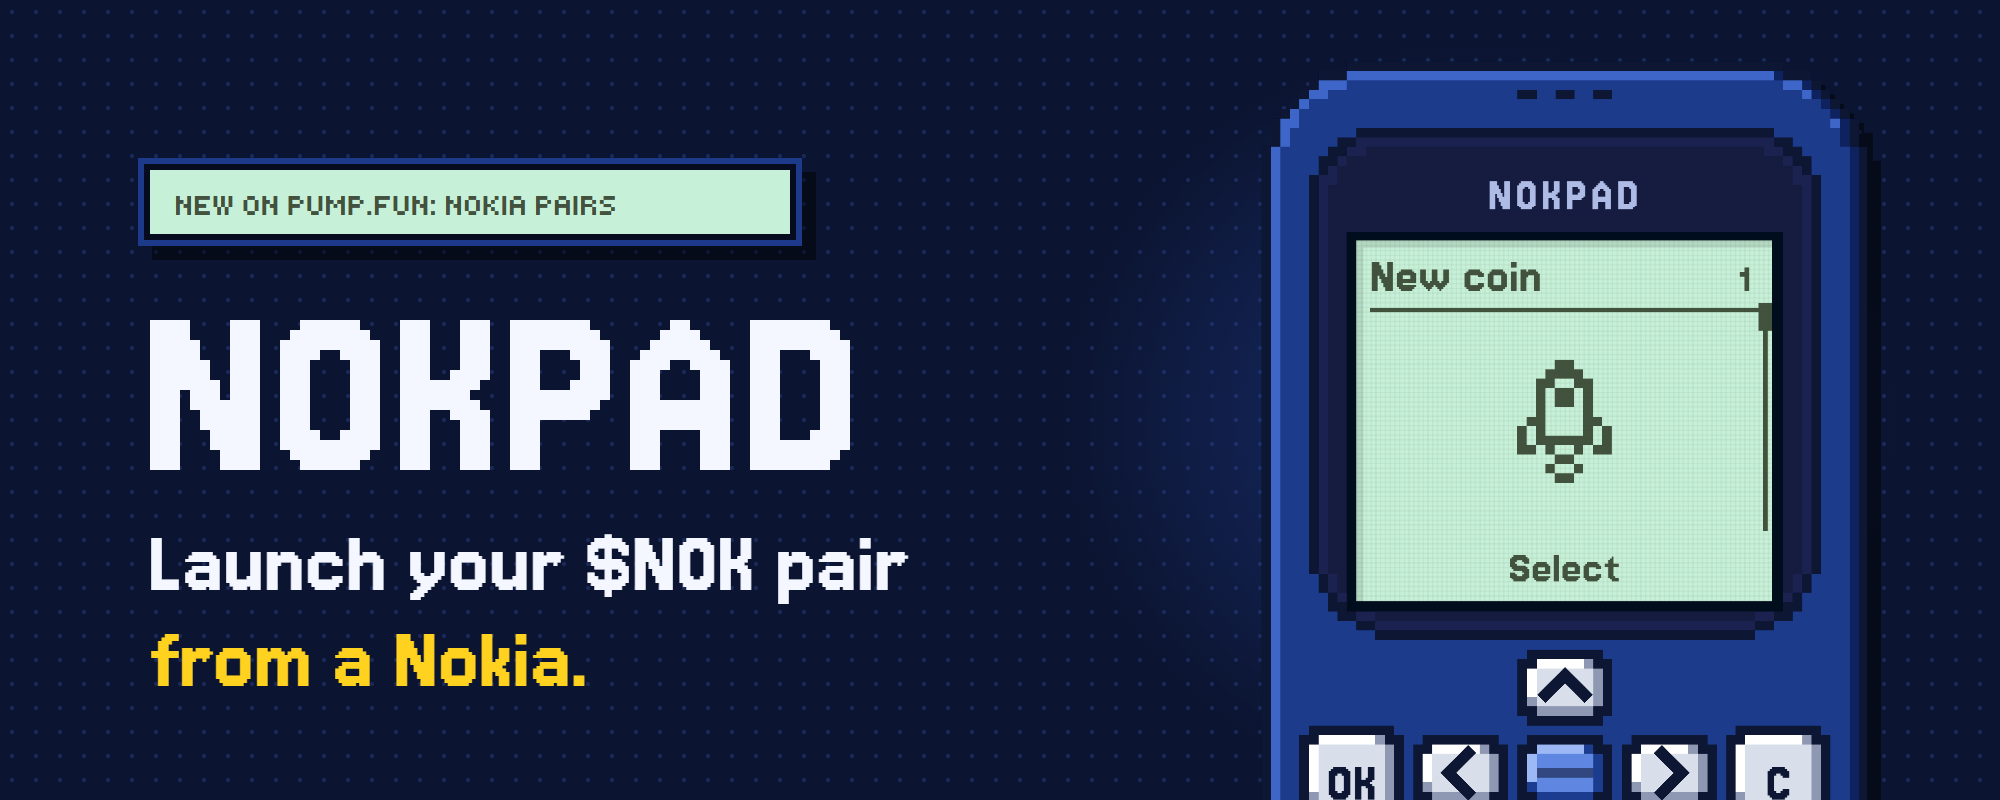
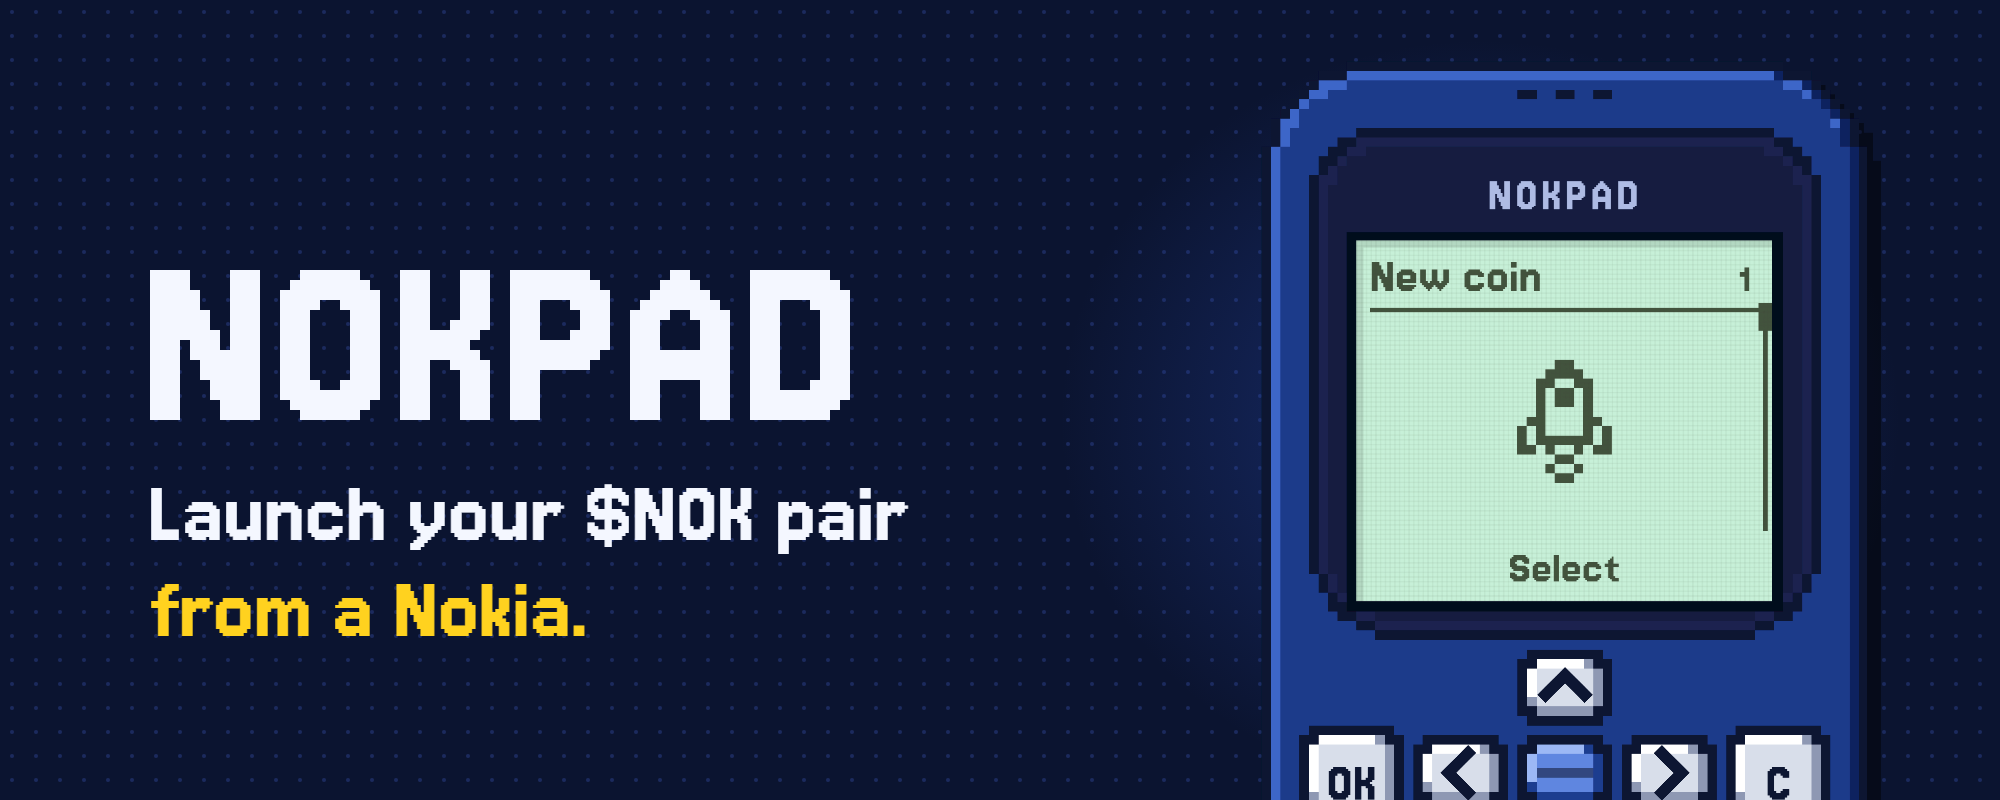
fix: drop the pump.fun tag from the NOKPAD cover
The user didn't want it on the cover.

Changed region(s): [[0.062, 0.1875, 0.465, 0.875]]

diff --git a/kits/nokpad/art/01-cover.html b/kits/nokpad/art/01-cover.html
@@ -16,4 +16,4 @@ svg{display:block}
 <filter id="hard" x="-10%" y="-10%" width="130%" height="130%"><feDropShadow dx="14" dy="14" stdDeviation="0" flood-color="#000" flood-opacity="0.45"/></filter>
 <radialGradient id="glow" cx="0.5" cy="0.5" r="0.5"><stop offset="0" stop-color="#c4ff96" stop-opacity="0.35"/><stop offset="1" stop-color="#c4ff96" stop-opacity="0"/></radialGradient>
 <radialGradient id="blue" cx="0.5" cy="0.5" r="0.5"><stop offset="0" stop-color="#2a4fc0" stop-opacity="0.45"/><stop offset="1" stop-color="#2a4fc0" stop-opacity="0"/></radialGradient>
-</defs><rect width="2000" height="800" fill="#0b1430"/><rect width="2000" height="800" fill="url(#dots)"/><ellipse cx="1480" cy="420" rx="420" ry="380" fill="url(#blue)"/><rect x="152" y="172" width="664" height="88" fill="#000" fill-opacity="0.45"/><rect x="138" y="158" width="664" height="88" fill="#1d3a8a"/><rect x="144" y="164" width="652" height="76" fill="#060b1f"/><rect x="150" y="170" width="640" height="64" fill="#c7f0d8"/><text class="lcd" x="176" y="215" font-size="30">NEW ON PUMP.FUN: NOKIA PAIRS</text><text class="disp" x="140" y="470" font-size="270">NOKPAD</text><text class="disp" x="148" y="590" font-size="92">Launch your $NOK pair</text><text class="disp y" x="148" y="686" font-size="92">from a Nokia.</text><image href="phone-menu.png" x="1260" y="60" width="608.5626911314985" height="1500" filter="url(#hard)"/></svg></body></html>
+</defs><rect width="2000" height="800" fill="#0b1430"/><rect width="2000" height="800" fill="url(#dots)"/><ellipse cx="1480" cy="420" rx="420" ry="380" fill="url(#blue)"/><text class="disp" x="140" y="420" font-size="270">NOKPAD</text><text class="disp" x="148" y="540" font-size="92">Launch your $NOK pair</text><text class="disp y" x="148" y="636" font-size="92">from a Nokia.</text><image href="phone-menu.png" x="1260" y="60" width="608.5626911314985" height="1500" filter="url(#hard)"/></svg></body></html>

diff --git a/kits/nokpad/art/gen.py b/kits/nokpad/art/gen.py
@@ -72,11 +72,9 @@ def caption(text, w, y):
 # ---------------------------------------------------------------- 1 cover 2000x800
 b = []
 b.append('<ellipse cx="1480" cy="420" rx="420" ry="380" fill="url(#blue)"/>')
-b.append(panel(150, 170, 640, 64))
-b.append('<text class="lcd" x="176" y="215" font-size="30">NEW ON PUMP.FUN: NOKIA PAIRS</text>')
-b.append('<text class="disp" x="140" y="470" font-size="270">NOKPAD</text>')
-b.append('<text class="disp" x="148" y="590" font-size="92">Launch your $NOK pair</text>')
-b.append('<text class="disp y" x="148" y="686" font-size="92">from a Nokia.</text>')
+b.append('<text class="disp" x="140" y="420" font-size="270">NOKPAD</text>')
+b.append('<text class="disp" x="148" y="540" font-size="92">Launch your $NOK pair</text>')
+b.append('<text class="disp y" x="148" y="636" font-size="92">from a Nokia.</text>')
 b.append(phone('menu', 1260, 60, 1500))
 page('01-cover.html', 2000, 800, b)
 
